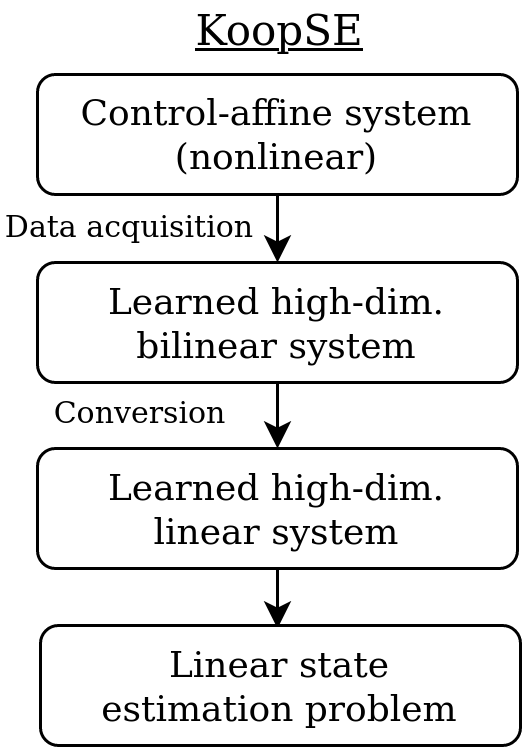
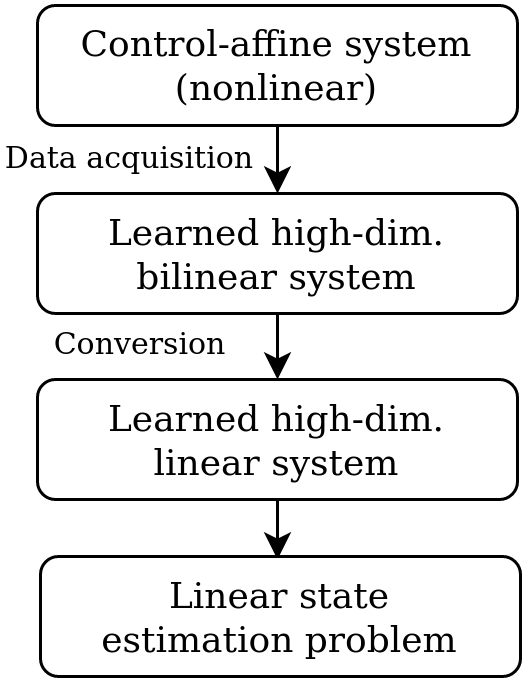
finished publications

Changed region(s): [[0.0, 0.0, 1.0, 1.0], [0.9448, 0.1549, 1.0, 0.2478]]

diff --git a/index.html b/index.html
@@ -46,6 +46,7 @@
 
       <!-- Gaussian inference on manifolds -->
       <article class="publication">
+        <div class="pub-main">
         <div class="pub-media single">
           <img src="assets/gaussian_2_constraint.png" alt="Marginalizing and conditioning onto a 1D manifold">
         </div>
@@ -85,7 +86,9 @@
             <button class="link-button bibtex-toggle">bibtex</button> /
             <a href="https://youtu.be/O84uAMSZ-JI?si=y5i9bqRyJRoaBkho" target="_blank">video</a>
           </p>
-<div class="bibtex-container">
+        </div>
+        </div>
+        <div class="bibtex-container">
   <button class="copy-bibtex">Copy bibtex</button>
           <pre class="bibtex">@article{guo2025manifoldgaussian,
   title = {Marginalizing and conditioning Gaussians onto linear approximations of smooth manifolds with applications in robotics},
@@ -97,11 +100,11 @@
   doi = {10.1109/ICRA55743.2025.11128000}
 }</pre>
 </div>
-        </div>
       </article>
 
       <!-- KILO-EKF -->
       <article class="publication">
+        <div class="pub-main">
         <div class="pub-media stack">
           <img src="assets/kiloekf-1.png" alt="KILO-EKF flowchart">
           <img src="assets/kiloekf-2.png" alt="KILO-EKF application">
@@ -142,8 +145,9 @@
             <a href="https://arxiv.org/abs/2601.12463">arxiv</a> /
             <button class="link-button bibtex-toggle">bibtex</button>
           </p>
-
-<div class="bibtex-container">
+        </div>
+        </div>
+        <div class="bibtex-container">
   <button class="copy-bibtex">Copy bibtex</button>
           <pre class="bibtex">@article{kilo-ekf,
   title={KILO-EKF: Koopman-inspired learned observations extended Kalman filter}, 
@@ -156,13 +160,13 @@
   url={https://arxiv.org/abs/2601.12463}, 
 }</pre>
 </div>
-        </div>
       </article>
 
       <!-- KoopSE -->
       <article class="publication">
+        <div class="pub-main">
         <div class="pub-media single">
-          <img src="assets/koopse_diagram_6.png" alt="KoopSE flowchart">
+          <img src="assets/koopse_diagram_6.png" alt="KoopSE flowchart" style="width: 70%">
         </div>
         <div class="pub-info">
           <p class="pub-title">
@@ -194,8 +198,9 @@
             <a href="https://arxiv.org/abs/2109.07000">arxiv</a> /
             <button class="link-button bibtex-toggle">bibtex</button>
           </p>
-
-<div class="bibtex-container">
+        </div>
+        </div>
+        <div class="bibtex-container">
   <button class="copy-bibtex">Copy bibtex</button>
           <pre class="bibtex">@article{koopse,
   author={Guo, Zi Cong and Korotkine, Vassili and Forbes, James R. and Barfoot, Timothy D.},
@@ -208,47 +213,49 @@
   doi={10.1109/LRA.2021.3133587}
 }</pre>
 </div>
-
-        </div>
       </article>
 
       <!-- RCKL-SLAM -->
       <article class="publication">
-        <div class="pub-media single">
-          <img src="assets/gesling_redkooploc_redkoopslam.png" alt="RCKL-SLAM">
+        <div class="pub-main">
+          <div class="pub-media row" style="justify-content: center;">
+            <img src="assets/rckl-1.png" alt="RCKL-Localization" style="width: 40%;">
+            <img src="assets/rckl-2.png" alt="RCKL-SLAM" style="width: 40%;">
+          </div>
+          <div class="pub-info">
+            <p class="pub-title">
+              <b> <a href="https://arxiv.org/pdf/2309.04375">Data-Driven Batch Localization and SLAM Using Koopman Linearization</a></b>
+            </p>
+
+            <p class="pub-authors">
+              <b>Zi Cong Guo</b>, Frederike Dümbgen, James R. Forbes, Timothy D. Barfoot
+            </p>
+
+            <p class="pub-venue"><i>
+              Transactions on Robotics (T-RO), 2024
+            </i></p>
+
+            <p class="summary academic">
+              This paper extends Koopman-inspired batch estimation to localization and SLAM by introducing the Reduced Constrained Koopman Linearization (RCKL) framework. The method jointly estimates robot states and landmarks using lifted models learned from data, revealing new challenges that arise in larger-scale lifted estimation problems. In particular, unconstrained optimization in the lifted space can drift away from representations that correspond to valid states and landmarks. RCKL addresses this by enforcing consistency with the constraint manifolds of the original robotics problem, enabling data-driven models to be used in SLAM while preserving the required manifold structure.
+            </p>
+
+            <p class="summary practitioner">
+              We propose the RCKL framework, which uses lifted models learned from data to improve localization and mapping when analytical process or measurement models are difficult to specify. To make lifted estimation practical for SLAM, our method introduces consistency constraints that keep the estimated robot trajectory and landmarks tied to the original physical problem. The resulting constrained optimization problem can be solved efficiently with sequential quadratic programming while exploiting sparsity structure similar to that used in classical batch SLAM solved with Gauss Newton.
+            </p>
+
+            <p class="summary general">
+              Robots often need to estimate both where they are and what the surrounding map looks like. When the models used for this estimation are inaccurate, the robot's trajectory and map can become less reliable. This work lets the robot use models learned from data, so the estimation can better reflect the system and environment in which the robot operates. At the same time, it adds constraints that keep the estimated trajectory and map physically meaningful as valid real-world configurations. The method remains efficient by building on well-established localization and mapping techniques, combining data-driven modeling with a structured and interpretable estimation framework.
+            </p>
+
+            <p class="pub-links">
+              <a href="https://ieeexplore.ieee.org/document/10636793/">paper</a> /
+              <a href="https://arxiv.org/abs/2309.04375">arxiv</a> /
+              <button class="link-button bibtex-toggle">bibtex</button>
+            </p>
+
+          </div>
         </div>
-        <div class="pub-info">
-          <p class="pub-title">
-            <b> <a href="https://arxiv.org/pdf/2309.04375">Data-Driven Batch Localization and SLAM Using Koopman Linearization</a></b>
-          </p>
-
-          <p class="pub-authors">
-            <b>Zi Cong Guo</b>, Frederike Dümbgen, James R. Forbes, Timothy D. Barfoot
-          </p>
-
-          <p class="pub-venue"><i>
-            Transactions on Robotics (T-RO), 2024
-          </i></p>
-
-          <p class="summary academic">
-            This paper extends Koopman-inspired batch estimation to localization and SLAM by introducing the Reduced Constrained Koopman Linearization (RCKL) framework. The method jointly estimates robot states and landmarks using lifted models learned from data, revealing new challenges that arise in larger-scale lifted estimation problems. In particular, unconstrained optimization in the lifted space can drift away from representations that correspond to valid states and landmarks. RCKL addresses this by enforcing consistency with the constraint manifolds of the original robotics problem, enabling data-driven models to be used in SLAM while preserving the required manifold structure.
-          </p>
-
-          <p class="summary practitioner">
-            We propose the RCKL framework, which uses lifted models learned from data to improve localization and mapping when analytical process or measurement models are difficult to specify. To make lifted estimation practical for SLAM, our method introduces consistency constraints that keep the estimated robot trajectory and landmarks tied to the original physical problem. The resulting constrained optimization problem can be solved efficiently with sequential quadratic programming while exploiting sparsity structure similar to that used in classical batch SLAM solved with Gauss Newton.
-          </p>
-
-          <p class="summary general">
-            Robots often need to estimate both where they are and what the surrounding map looks like. When the models used for this estimation are inaccurate, the robot's trajectory and map can become less reliable. This work lets the robot use models learned from data, so the estimation can better reflect the system and environment in which the robot operates. At the same time, it adds constraints that keep the estimated trajectory and map physically meaningful as valid real-world configurations. The method remains efficient by preserving structure from well-established SLAM methods, combining data-driven modeling with a structured and interpretable estimation framework.
-          </p>
-
-          <p class="pub-links">
-            <a href="https://ieeexplore.ieee.org/document/10636793/">paper</a> /
-            <a href="https://arxiv.org/abs/2309.04375">arxiv</a> /
-            <button class="link-button bibtex-toggle">bibtex</button>
-          </p>
-
-<div class="bibtex-container">
+        <div class="bibtex-container">
   <button class="copy-bibtex">Copy bibtex</button>
           <pre class="bibtex">@article{rckl,
   author={Guo, Zi Cong and Dümbgen, Frederike and Forbes, James R. and Barfoot, Timothy D.},
@@ -261,13 +268,15 @@
   doi={10.1109/TRO.2024.3443674}
 }</pre>
 </div>
-
-        </div>
+        
       </article>
-
+      
+      <!-- Continuous-time interpolation -->
       <article class="publication">
-        <div class="pub-media single">
-          <img src="assets/fnt.png" alt="GTSAM localization with continuous-time interpolation">
+        <div class="pub-main">
+        <div class="pub-media stack">
+          <img src="assets/fnt-1.png" alt="Continuous-time interpolation on 2D dataset">
+          <img src="assets/fnt-2.png" alt="Continuous-time interpolation on 3D dataset">
         </div>
         <div class="pub-info">
           <p class="pub-title">
@@ -299,8 +308,9 @@
             <a href="https://gtsam.org/2026/05/20/gp-ct-in-gtsam.html">blog</a> /
             <button class="link-button bibtex-toggle">bibtex</button>
           </p>
-
-<div class="bibtex-container">
+        </div>
+        </div>
+        <div class="bibtex-container">
   <button class="copy-bibtex">Copy bibtex</button>
           <pre class="bibtex">@article{smoothing-out-edges,
   title={Smoothing out the edges: continuous-time estimation with Gaussian process motion priors on factor graphs}, 
@@ -314,7 +324,6 @@
   url={https://arxiv.org/abs/2605.09073}
 }</pre>
 </div>
-        </div>
       </article>
       <div class="audience-toggle bottom-toggle">
         <span class="audience-toggle">

diff --git a/script.js b/script.js
@@ -17,11 +17,38 @@ document.querySelectorAll(".audience-btn").forEach((button) => {
 
 document.querySelectorAll(".bibtex-toggle").forEach((button) => {
   button.addEventListener("click", () => {
-    const container = button.closest(".pub-info").querySelector(".bibtex-container");
+    const container = button.closest(".publication").querySelector(".bibtex-container");
 
     const isVisible = getComputedStyle(container).display !== "none";
 
     container.style.display = isVisible ? "none" : "block";
     button.classList.toggle("active", !isVisible);
+  });
+});
+
+document.querySelectorAll(".copy-bibtex").forEach((button) => {
+  button.addEventListener("click", async () => {
+    const container = button.closest(".bibtex-container");
+    const bibtex = container.querySelector(".bibtex").innerText.trim();
+
+    try {
+      await navigator.clipboard.writeText(bibtex);
+
+      button.textContent = "Copied!";
+      button.classList.add("copied");
+
+      setTimeout(() => {
+        button.textContent = "Copy bibtex";
+        button.classList.remove("copied");
+      }, 1500);
+    } catch (err) {
+      console.error("Failed to copy BibTeX:", err);
+
+      button.textContent = "Copy failed";
+
+      setTimeout(() => {
+        button.textContent = "Copy bibtex";
+      }, 1500);
+    }
   });
 });

diff --git a/style.css b/style.css
@@ -88,10 +88,19 @@ a:hover {
 }
 
 .publication {
+  margin: 1rem 0;
+  padding-bottom: 1rem;
+  border-bottom: 1px solid #ddd;
+}
+
+.publication:last-of-type {
+  border-bottom: none;
+}
+
+.pub-main {
   display: flex;
   gap: 1.2rem;
-  margin: 2rem 0;
-  align-items: flex-start;
+  align-items: center;
 }
 
 .pub-img {
@@ -131,13 +140,14 @@ body[data-audience="general"] .summary.general {
 }
 
 @media (max-width: 650px) {
-  .publication {
+  .pub-main {
     flex-direction: column;
+    align-items: stretch;
   }
 
-  .pub-img {
+  .pub-media {
     width: 100%;
-    height: auto;
+    flex: none;
   }
 }
 
@@ -249,8 +259,8 @@ body[data-audience="general"] .summary.general {
 }
 
 .pub-media {
-  width: 240px;
-  flex: 0 0 240px;
+  width: 280px;
+  flex: 0 0 280px;
   display: flex;
   gap: 0.5rem;
 }
@@ -260,15 +270,17 @@ body[data-audience="general"] .summary.general {
   height: auto;
   object-fit: contain;
   border-radius: 4px;
-  background: #eee;
+  background: white;
 }
 
 .pub-media.single {
   flex-direction: column;
+  align-items: center;
 }
 
 .pub-media.stack {
   flex-direction: column;
+  align-items: center;
 }
 
 .pub-media.row {